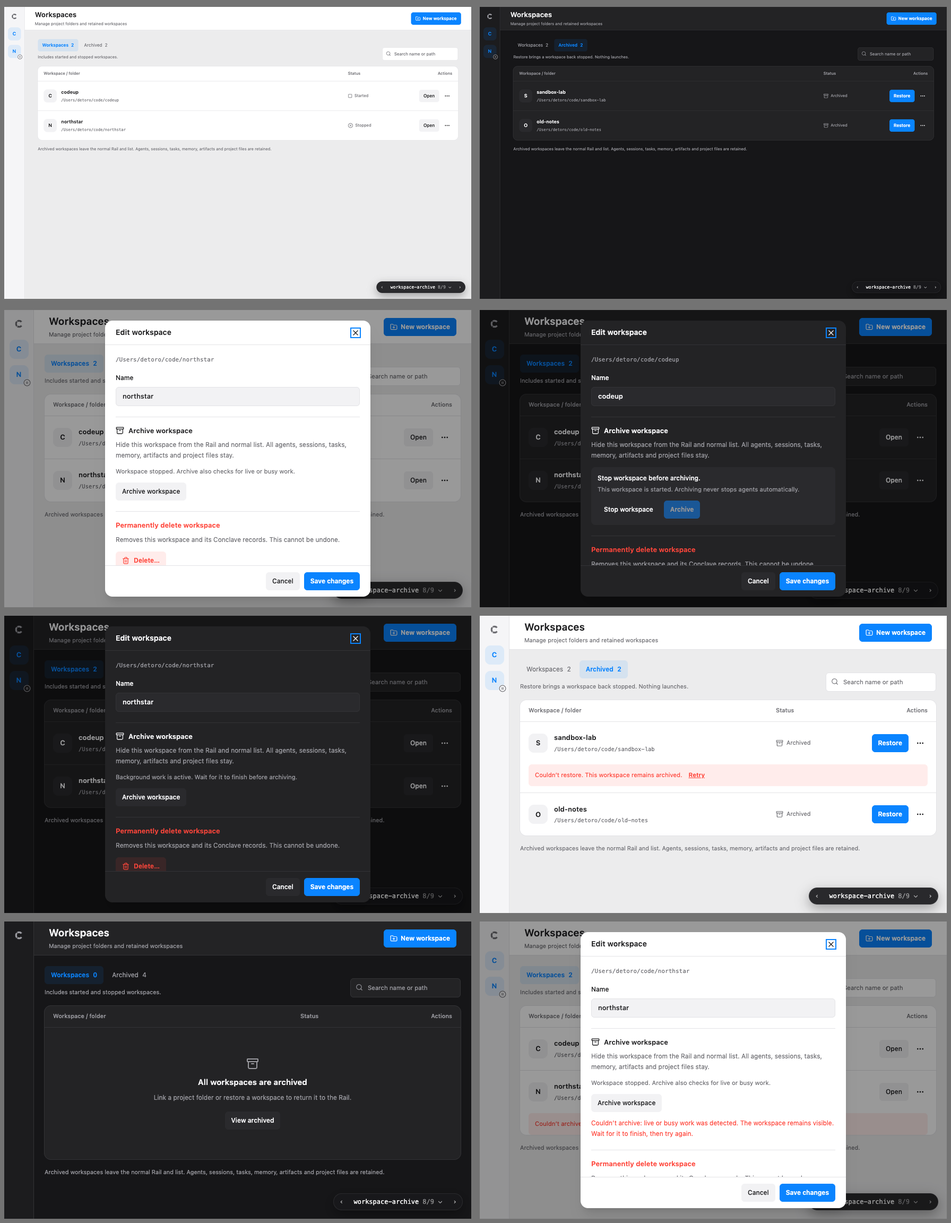
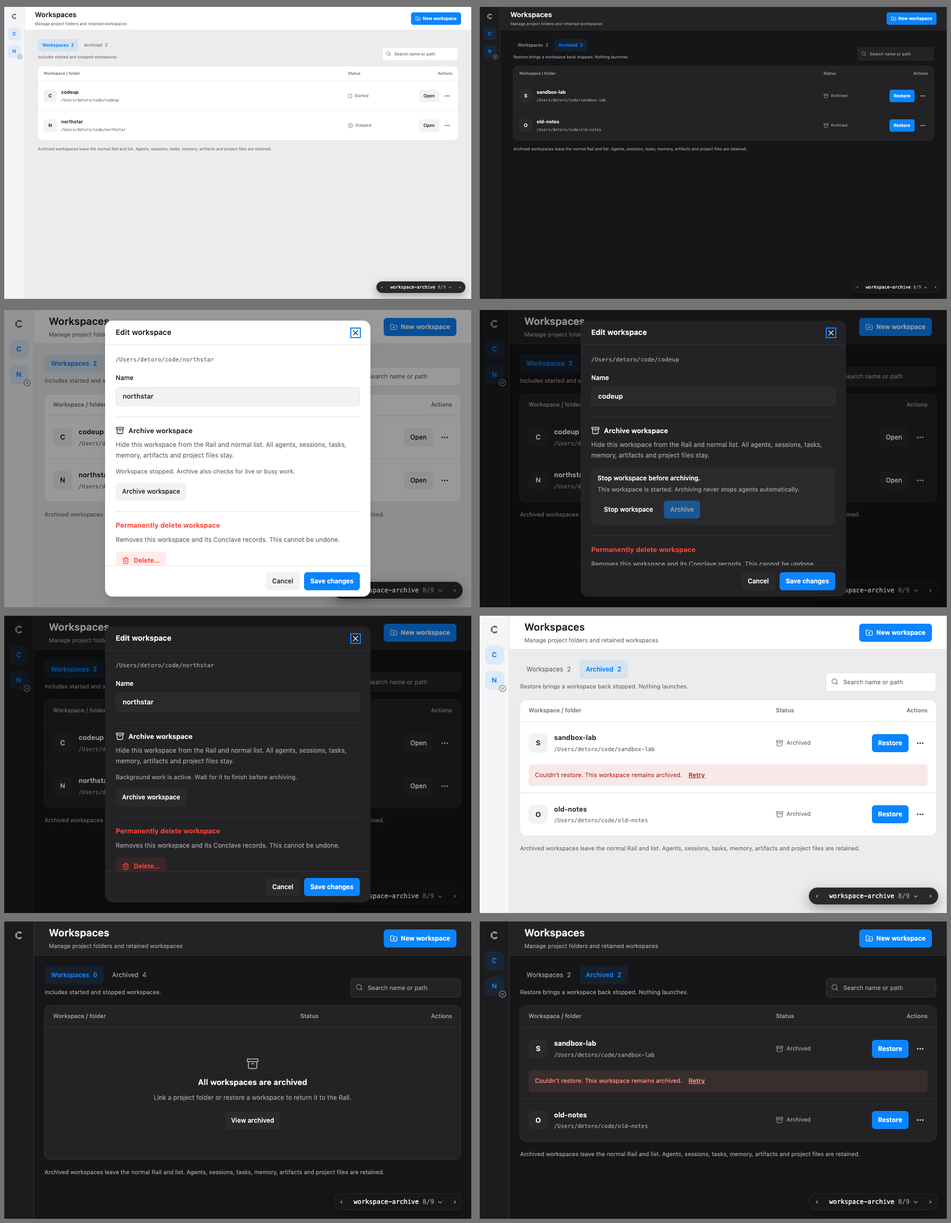
design: finish measured usage calendar and archive contrast
Conclave-Task: workspace-overview-canon
Conclave-Agent: aee0133c-2b94-4ce7-b39a-01ceb26afeb9

Changed region(s): [[0.5, 0.75, 1.0, 1.0]]

diff --git a/design/screens/workspace-overview.tsx b/design/screens/workspace-overview.tsx
@@ -1,113 +1,119 @@
 import { useEffect, useMemo, useRef, useState } from "react";
 import { Link } from "react-router-dom";
-import { CalendarDays, Database, FolderCog, Info } from "lucide-react";
+import { CalendarDays, ChevronRight, FolderCog, Info, Table2 } from "lucide-react";
 
-export const meta = { title: "Overview — AI usage and recorded activity" };
+export const meta = { title: "Overview — measured AI usage and daily activity" };
 
-/* Provisional geometry only. Metric, timezone, attribution and collection
-   coverage await Aoki's research-backed contract. No fabricated measurements. */
-type Bucket = { date: string; count: number | null; unit: string | null };
-const END = Date.UTC(2026, 8, 5);
-const DAY = 86400000;
+type Coverage = "complete" | "partial" | "none";
+type Event = {date:string; model:string; agent:string; workspace:string; tokens:number|null};
+/* Explicit illustrative fixture records. Never presented as live user telemetry.
+   Token numbers below represent input+output only when both components are known.
+   Production adapter must consume the pinned usage.overview wire contract. */
+const RECORDS:Event[] = [
+  {date:"2026-09-02",model:"Claude Sonnet",agent:"Dew",workspace:"codeup",tokens:12400},
+  {date:"2026-09-02",model:"Claude Sonnet",agent:"Dew",workspace:"codeup",tokens:8200},
+  {date:"2026-09-03",model:"Unknown model",agent:"Aoki",workspace:"codeup",tokens:null},
+  {date:"2026-09-04",model:"Claude Sonnet",agent:"Dew",workspace:"codeup",tokens:18600},
+  {date:"2026-09-04",model:"Claude Sonnet",agent:"Dew",workspace:"codeup",tokens:null},
+  {date:"2026-09-05",model:"GPT-5",agent:"Marty",workspace:"archive-lab",tokens:9600},
+];
+const CONTEXT = [
+  {agent:"Dew",model:"Claude Sonnet",workspace:"codeup",used:42000,limit:200000,source:"Transcript",observed:"5 Sep, 13:20"},
+  {agent:"Aoki",model:"Unknown model",workspace:"codeup",used:null,limit:null,source:"Unavailable",observed:"No observation"},
+  {agent:"Marty",model:"GPT-5",workspace:"archive-lab",used:36000,limit:200000,source:"Transcript",observed:"4 Sep, 18:10 · stale"},
+];
+const TODAY = "2026-09-05";
+const DAY=86400000;
+const fmt=(n:number)=>n.toLocaleString("en-US");
+const focus="focus-visible:outline-none focus-visible:ring-2 focus-visible:ring-accent";
+const pill="rounded-md border border-border bg-surface px-2 py-1.5 text-[11px] "+focus;
 
 export default function UsageOverview() {
-  const params = useMemo(() => new URLSearchParams(location.search), []);
-  const state = params.get("state") || "default";
-  const dark = params.get("theme") === "dark";
-  const [weeks, setWeeks] = useState(52);
-  const [workspace, setWorkspace] = useState("All workspaces");
-  const [provider, setProvider] = useState("All providers");
-  const [group, setGroup] = useState("Model");
-  const [selected, setSelected] = useState(0);
-  const [table, setTable] = useState(false);
-  const cells = useRef<(HTMLButtonElement | null)[]>([]);
-  const buckets = useMemo<Bucket[]>(() => Array.from({ length: weeks * 7 }, (_, i) => ({
-    date: new Date(END - (weeks * 7 - i - 1) * DAY).toISOString().slice(0, 10),
-    count: null, unit: null,
-  })), [weeks]);
-  const current = buckets[Math.min(selected, buckets.length - 1)];
-  const loading = state === "loading";
-  const error = state === "error";
-  const explanation = state === "unsupported"
-    ? "Usage measurement is unavailable for this provider."
-    : state === "partial"
-      ? "Some sources or periods are missing. Only measured usage can contribute to totals."
-      : "No recorded usage yet. Earlier activity may not be available when collection begins.";
-
-  useEffect(() => {
-    document.documentElement.classList.toggle("dark", dark);
-    return () => document.documentElement.classList.remove("dark");
-  }, [dark]);
+  const params=useMemo(()=>new URLSearchParams(location.search),[]);
+  const preview=params.get("state")||"default";
+  const dark=params.get("theme")==="dark";
+  const [range,setRange]=useState(90);
+  const [model,setModel]=useState("All models");
+  const [agent,setAgent]=useState("All agents");
+  const [workspace,setWorkspace]=useState("All workspaces");
+  const [group,setGroup]=useState("Model");
+  const [selected,setSelected]=useState(89);
+  const [table,setTable]=useState(false);
+  const [failed,setFailed]=useState(preview==="error");
+  const cells=useRef<(HTMLButtonElement|null)[]>([]);
+  const loading=preview==="loading";
+  const unavailable=preview==="none"||preview==="unsupported";
+  const empty=preview==="empty"||preview==="zero";
+  const records=unavailable||empty||loading||failed?[]:RECORDS.filter(e=>(model==="All models"||e.model===model)&&(agent==="All agents"||e.agent===agent)&&(workspace==="All workspaces"||e.workspace===workspace));
+  const matches=(e:{model:string;agent:string;workspace:string})=>(model==="All models"||e.model===model)&&(agent==="All agents"||e.agent===agent)&&(workspace==="All workspaces"||e.workspace===workspace);
+  const dates=Array.from({length:range},(_,i)=>new Date(Date.parse(TODAY+"T00:00:00Z")-(range-i-1)*DAY).toISOString().slice(0,10));
+  const coverage=(date:string):Coverage=>preview==="zero"&&date!==TODAY?"complete":unavailable||loading||failed||date<"2026-09-01"?"none":date==="2026-09-03"||date===TODAY?"partial":"complete";
+  const buckets=dates.map(date=>{const events=records.filter(e=>e.date===date);return {date,count:events.length,coverage:coverage(date)};});
+  const firstDay=new Date(dates[0]+"T00:00:00Z").getUTCDay();
+  const columns=Math.ceil((range+firstDay)/7);
+  const padded=[...Array(firstDay).fill(null),...buckets,...Array(columns*7-range-firstDay).fill(null)];
+  const current=buckets[Math.min(selected,range-1)];
+  const exact=(b:typeof current)=>b.coverage==="none"?"Unavailable":b.coverage==="partial"&&b.count===0?"— · partial":fmt(b.count)+(b.coverage==="partial"?" · partial":"");
+  const measured=records.reduce((n,e)=>n+(e.tokens??0),0);
+  const missing=records.filter(e=>e.tokens===null).length;
+  const hasCoverage=buckets.some(b=>b.coverage!=="none");
+  const fullyCovered=buckets.every(b=>b.coverage==="complete");
+  const rows=Object.values(records.reduce<Record<string,{name:string;count:number;tokens:number;missing:number}>>((out,e)=>{
+    const name=group==="Model"?e.model:group==="Agent"?e.agent:e.workspace;
+    out[name]??={name,count:0,tokens:0,missing:0};out[name].count++;out[name].tokens+=e.tokens??0;out[name].missing+=e.tokens===null?1:0;return out;
+  },{}));
+  useEffect(()=>{document.documentElement.classList.toggle("dark",dark);return()=>document.documentElement.classList.remove("dark");},[dark]);
 
   return <div className="usage-canon flex h-screen min-w-[760px] overflow-hidden bg-canvas font-sans text-text-primary">
     <style>{`
-      .usage-canon { --heat-0: #e8e8ef; --heat-1: #c4c0f1; --heat-2: #9b92e5; --heat-3: #7468d5; --heat-4: #5143b6; }
-      .dark .usage-canon { --heat-0: #292932; --heat-1: #373251; --heat-2: #514887; --heat-3: #6b5bb5; --heat-4: #8d7bea; }
-      .usage-canon .heat-unknown { background: transparent; border: 1px dashed var(--color-border); }
-      .usage-canon button:focus-visible, .usage-canon a:focus-visible, .usage-canon select:focus-visible { outline: 2px solid var(--color-accent); outline-offset: 3px; }
+      .usage-canon { --heat-0:#e6e6ed;--heat-1:#c0bbed;--heat-2:#9187dd;--heat-3:#7060c8;--heat-4:#5142ab; }
+      .dark .usage-canon { --heat-0:#32323c;--heat-1:#464064;--heat-2:#615395;--heat-3:#7e6dc6;--heat-4:#a595ef; }
+      .usage-canon .unknown-cell { border:1px dashed var(--color-text-secondary);background:transparent;opacity:.45; }
+      .usage-canon .partial-cell { outline:1px dotted var(--color-text-primary);outline-offset:1px; }
+      .usage-canon .sr-only { position:absolute;width:1px;height:1px;padding:0;margin:-1px;overflow:hidden;clip:rect(0,0,0,0);white-space:nowrap;border:0; }
+      .usage-canon .calendar-rows { display:grid;grid-template-rows:repeat(7,16px);gap:6px;padding-top:24px; }
     `}</style>
-    <nav aria-label="Primary" className="flex w-14 shrink-0 flex-col items-center gap-3 border-r border-border bg-sidebar py-2">
-      <Link to="/workspace-overview" aria-label="Overview" aria-current="page" className="grid h-9 w-9 place-items-center rounded-[9px] bg-accent/10 text-accent">
-        <svg viewBox="0 0 512 512" className="h-5 w-5" fill="currentColor" aria-hidden="true">
-          <path d="M149 97 223 67 322 76 403 133 336 189 292 158 247 152 198 170Z" />
-          <path d="M128 399 76 322 68 256 76 190 128 113 186 179 156 205 152 256 156 307 186 333Z" />
-          <path d="M403 379 322 436 223 445 149 415 198 342 247 360 292 354 336 323Z" />
-        </svg>
-      </Link>
-      <Link to="/workspace-archive" aria-label="Manage workspaces" title="Manage workspaces" className="grid h-9 w-9 place-items-center rounded-lg text-text-secondary hover:bg-fill"><FolderCog className="h-[18px] w-[18px]" /></Link>
+    <nav className="flex w-14 shrink-0 flex-col items-center gap-3 border-r border-border bg-sidebar py-2" aria-label="Primary">
+      <Link to="/workspace-overview" aria-label="Overview" aria-current="page" className={"grid h-9 w-9 place-items-center rounded-lg bg-accent/10 text-accent "+focus}><svg viewBox="0 0 512 512" fill="currentColor" className="h-5 w-5" aria-hidden="true"><path d="M149 97 223 67 322 76 403 133 336 189 292 158 247 152 198 170Z"/><path d="M128 399 76 322 68 256 76 190 128 113 186 179 156 205 152 256 156 307 186 333Z"/><path d="M403 379 322 436 223 445 149 415 198 342 247 360 292 354 336 323Z"/></svg></Link>
+      <Link to="/workspace-archive" aria-label="Manage workspaces" className={"grid h-9 w-9 place-items-center rounded-lg text-text-secondary "+focus}><FolderCog className="h-4 w-4"/></Link>
     </nav>
     <main className="min-w-0 flex-1 overflow-auto">
-      <header className="flex h-16 items-center justify-between gap-4 border-b border-border bg-surface px-7">
-        <div><h1 className="text-[19px] font-semibold tracking-[-0.02em]">Overview</h1><p className="mt-0.5 text-[11px] text-text-secondary">AI usage across your workspaces</p></div>
-        <Link to="/workspace-archive" className="inline-flex items-center gap-2 rounded-md bg-fill px-3 py-2 text-[11px] font-medium"><FolderCog className="h-3.5 w-3.5" />Manage workspaces</Link>
-      </header>
-      <div className="mx-auto max-w-[1320px] space-y-5 px-7 py-5 max-[980px]:px-5">
-        <div className="flex flex-wrap items-center justify-between gap-3">
-          <div className="flex gap-2">
-            <label><span className="sr-only">Workspace</span><select value={workspace} onChange={e => setWorkspace(e.target.value)} className="h-8 rounded-md border border-border bg-surface px-2 text-[11px]"><option>All workspaces</option><option>codeup</option><option>launchpad</option></select></label>
-            <label><span className="sr-only">Provider</span><select value={provider} onChange={e => setProvider(e.target.value)} className="h-8 rounded-md border border-border bg-surface px-2 text-[11px]"><option>All providers</option><option>Codex</option><option>Claude Code</option><option>Antigravity</option></select></label>
-          </div>
-          <label className="inline-flex items-center gap-2 text-[11px]"><CalendarDays className="h-3.5 w-3.5" /><span className="sr-only">Date range</span><select value={weeks} onChange={e => { setWeeks(Number(e.target.value)); setSelected(0); }} className="h-8 rounded-md border border-border bg-surface px-2"><option value={4}>4 weeks</option><option value={13}>13 weeks</option><option value={26}>26 weeks</option><option value={52}>52 weeks</option></select></label>
+      <header className="flex h-16 items-center justify-between gap-4 border-b border-border bg-surface px-6"><div><h1 className="text-[19px] font-semibold">Overview</h1><p className="mt-0.5 text-[11px] text-text-secondary">Recorded AI activity and measured tokens</p></div><Link to="/workspace-archive" className={pill}>Manage workspaces</Link></header>
+      <div className="mx-auto max-w-[1280px] space-y-4 px-6 py-4 max-[980px]:px-5">
+        <p className="text-[10px] text-text-secondary">Design specimen · illustrative records · 5 Sep 2026 · Asia/Bangkok</p>
+        <div className="flex flex-wrap items-center gap-2">
+          {[[model,setModel,["All models","Claude Sonnet","GPT-5","Unknown model"]],[agent,setAgent,["All agents","Dew","Aoki","Marty"]],[workspace,setWorkspace,["All workspaces","codeup","archive-lab"]]].map(([value,set,options],i)=><label key={i}><span className="sr-only">{["Model","Agent","Workspace"][i]}</span><select className={pill} value={value as string} onChange={e=>(set as (v:string)=>void)(e.target.value)}>{(options as string[]).map(v=><option key={v}>{v}</option>)}</select></label>)}
+          <label className="ml-auto flex items-center gap-2"><CalendarDays className="h-3.5 w-3.5 text-text-secondary"/><span className="sr-only">Date range</span><select className={pill} value={range} onChange={e=>{setRange(Number(e.target.value));setSelected(Number(e.target.value)-1);}}><option value={30}>Last 30 days</option><option value={90}>Last 90 days</option></select></label>
         </div>
-        <section aria-label="Token measurements" className="grid grid-cols-3 divide-x divide-border border-y border-border py-4">
+        <p className="text-[10.5px] text-text-secondary">Archived workspace history included · hidden internal workspaces excluded</p>
+        {failed?<div role="alert" className="flex items-center justify-between rounded-lg bg-surface p-4 ring-1 ring-border"><span className="text-[12px]">Couldn’t load usage. Measurements are unavailable.</span><button className={pill} onClick={()=>setFailed(false)}>Retry</button></div>:<section aria-label="Period measurements" className="grid grid-cols-3 divide-x divide-border border-y border-border py-3">
           {[
-            ["Period token usage", "Measured tokens in the selected range"],
-            ["Current context", "Latest observed context per agent"],
-            ["Measurement coverage", "Sources and periods with recorded data"],
-          ].map(([label, copy]) => <div key={label} className="px-4 first:pl-0"><h2 className="text-[11px] font-medium text-text-secondary">{label}</h2>
-            {loading ? <div className="my-3 h-5 w-24 rounded bg-fill" aria-label="Loading" /> : <div className="my-2 text-[22px] font-semibold">—<span className="ml-2 text-[11px] font-normal text-text-secondary">Unavailable</span></div>}
-            <p className="text-[10.5px] text-text-secondary">{copy}</p></div>)}
-        </section>
-        <div role={error ? "alert" : "status"} className="flex items-start gap-2 text-[11px] leading-relaxed text-text-secondary"><Info className="mt-0.5 h-3.5 w-3.5 shrink-0" /><span>{error ? "Couldn’t load usage. Measurements remain unavailable until refresh succeeds." : loading ? "Loading measurements and coverage…" : explanation}</span>{error && <button onClick={() => location.reload()} className="ml-auto font-semibold text-accent">Retry</button>}</div>
-
+            ["Measured tokens",loading?"Loading…":!hasCoverage?"Unavailable":records.length>missing?fmt(measured):fullyCovered&&!records.length?"0":"—",hasCoverage?missing+" activity records have unknown token usage":"Missing-record count unavailable"],
+            ["Recorded activity",loading?"Loading…":!hasCoverage?"Unavailable":records.length?fmt(records.length):fullyCovered?"0":"—","Completed responses / stable usage records"],
+            ["Coverage",loading?"Loading…":!hasCoverage?"None":fullyCovered?"Complete":"Partial",hasCoverage?"History starts 1 Sep · gaps remain unknown":"No supported observation in this range"],
+          ].map(([label,value,help])=><div key={label} className="px-4 first:pl-0"><h2 className="text-[11px] text-text-secondary">{label}</h2><div className="my-2 font-semibold tabular-nums" style={{fontSize:25}}>{value}</div><p className="text-[10.5px] leading-relaxed text-text-secondary">{help}</p></div>)}
+        </section>}
+        <p role="status" className="flex items-start gap-2 text-[11px] leading-relaxed text-text-secondary"><Info className="mt-0.5 h-3.5 w-3.5 shrink-0"/>{unavailable?"This source has no validated usage observations. Unknown does not mean zero.":"Measured tokens include known input + output only. They are not total account consumption; missing usage and observation gaps remain visible."}</p>
         <section aria-labelledby="activity-title" className="rounded-xl bg-surface p-4 ring-1 ring-border">
-          <div className="flex items-start justify-between gap-3"><div><h2 id="activity-title" className="text-[13px] font-semibold">Activity</h2><p className="mt-1 text-[10.5px] text-text-secondary">{buckets[0].date} – {buckets[buckets.length - 1].date} · Daily calendar preview</p></div><button onClick={() => setTable(v => !v)} aria-expanded={table} className="rounded-md bg-fill px-2.5 py-1.5 text-[10.5px] font-medium">{table ? "Show heatmap" : "View dates as table"}</button></div>
-          <p className="mt-3 text-[10.5px] text-text-secondary">No measured activity is available for this period. Outlined cells mean unknown.</p>
-          {table ? <div className="mt-4 max-h-40 overflow-auto"><table className="w-full text-left text-[11px]"><thead><tr><th className="py-2">Date</th><th>Metric</th><th>Exact count</th><th>Coverage</th></tr></thead><tbody>{buckets.map(b => <tr key={b.date} className="border-t border-border"><td className="py-1.5">{b.date}</td><td>Unavailable</td><td>—</td><td>Unknown</td></tr>)}</tbody></table></div>
-          : <div className="mt-4 flex gap-3 overflow-x-auto pb-2">
-            <div className="grid shrink-0 grid-rows-7 gap-1 pt-6 text-[9px] text-text-secondary">{["Sun","Mon","Tue","Wed","Thu","Fri","Sat"].map(day => <span key={day} className="flex h-3.5 items-center">{day}</span>)}</div>
-            <div className="min-w-0 flex-1">
-              <div className="mb-2 flex justify-between text-[10px] text-text-secondary"><span>{buckets[0].date}</span><span>Sep 2026</span></div>
-              <div role="group" aria-label="Daily activity: dates currently unknown" className="grid w-max grid-flow-col grid-rows-7 gap-1" style={{ gridTemplateColumns: `repeat(${weeks}, 14px)` }}>
-                {buckets.map((b, i) => <button key={b.date} ref={el => {cells.current[i] = el;}} tabIndex={i === selected ? 0 : -1} title={`${b.date} · Activity unavailable · Exact count unknown`} aria-label={`${b.date}, activity unavailable, count unknown`} onMouseEnter={() => setSelected(i)} onFocus={() => setSelected(i)} onClick={() => setSelected(i)} onKeyDown={e => {
-                  const step = e.key === "ArrowRight" ? 7 : e.key === "ArrowLeft" ? -7 : e.key === "ArrowDown" ? 1 : e.key === "ArrowUp" ? -1 : 0;
-                  if (step) { e.preventDefault(); const next = Math.max(0, Math.min(buckets.length - 1, i + step)); setSelected(next); cells.current[next]?.focus(); }
-                }} className="heat-unknown h-3.5 min-w-3.5 rounded-[3px]" />)}
+          <div className="flex items-start justify-between"><div><h2 id="activity-title" className="text-[13px] font-semibold">Daily activity</h2><p className="mt-1 text-[10.5px] text-text-secondary">{dates[0]} – {TODAY} · Asia/Bangkok · Today in progress</p></div><button onClick={()=>setTable(v=>!v)} className={"inline-flex items-center gap-1.5 "+pill}><Table2 className="h-3 w-3"/>{table?"Calendar":"Daily table"}</button></div>
+          {loading?<div aria-label="Loading daily activity" className="my-5 rounded bg-fill" style={{height:128}}/>:table?<div className="mt-4 max-h-44 overflow-auto"><table className="w-full text-left text-[11px]"><thead><tr><th>Date</th><th>Activity records</th><th>Coverage</th></tr></thead><tbody>{buckets.map(b=><tr key={b.date} className="border-t border-border"><td className="py-1.5">{b.date}{b.date===TODAY?" · in progress":""}</td><td>{exact(b)}</td><td>{b.coverage}</td></tr>)}</tbody></table></div>:<div className="mt-4 flex gap-3 overflow-x-auto pb-2">
+            <div className="calendar-rows shrink-0 text-[9px] text-text-secondary">{["Sun","Mon","Tue","Wed","Thu","Fri","Sat"].map(d=><span key={d} className="flex h-4 items-center">{d}</span>)}</div>
+            <div><div className="mb-2 grid h-4 text-[10px] text-text-secondary" style={{gridTemplateColumns:`repeat(${columns},22px)`}}>{Array.from({length:columns},(_,i)=>{const date=dates[Math.max(0,i*7-firstDay)];const prev=dates[Math.max(0,(i-1)*7-firstDay)];return <span key={i} className="overflow-visible whitespace-nowrap">{i===columns-1?"Sep":i===0||date?.slice(0,7)!==prev?.slice(0,7)?new Date(date+"T00:00:00Z").toLocaleString("en",{month:"short",timeZone:"UTC"}):""}</span>;})}</div>
+              <div role="group" aria-label="Daily recorded activity" className="grid w-max gap-1.5" style={{gridAutoFlow:"column",gridTemplateRows:"repeat(7,16px)",gap:6,gridTemplateColumns:`repeat(${columns},16px)`}}>
+                {padded.map((b,i)=>!b?<span key={"outside"+i} aria-hidden="true" className="h-4 w-4"/>:<button key={b.date} ref={el=>{cells.current[i-firstDay]=el;}} tabIndex={i-firstDay===selected?0:-1} title={b.date+" · "+exact(b)+" activity records · "+b.coverage} aria-label={b.date+", "+exact(b)+" activity records, "+b.coverage+(b.date===TODAY?", in progress":"")} onFocus={()=>setSelected(i-firstDay)} onMouseEnter={()=>setSelected(i-firstDay)} onClick={()=>setSelected(i-firstDay)} onKeyDown={e=>{const step=e.key==="ArrowRight"?7:e.key==="ArrowLeft"?-7:e.key==="ArrowDown"?1:e.key==="ArrowUp"?-1:0;if(step){e.preventDefault();e.stopPropagation();const n=Math.max(0,Math.min(range-1,i-firstDay+step));setSelected(n);cells.current[n]?.focus();}}} className={`h-4 w-4 rounded-[3px] ${focus} ${b.coverage==="none"||b.coverage==="partial"&&!b.count?"unknown-cell":""} ${b.coverage==="partial"?"partial-cell":""}`} style={b.coverage==="complete"||b.count?{backgroundColor:`var(--heat-${Math.min(b.count,4)})`}:undefined}/>)}
               </div>
             </div>
+            <div className="ml-auto max-w-[230px] self-center pl-5 text-[11px] leading-relaxed text-text-secondary max-[980px]:hidden"><p className="font-medium text-text-primary">History begins with collection</p><p className="mt-2">Earlier dates and observation gaps are unknown. A solid empty cell is a verified zero.</p></div>
           </div>}
-          <div className="mt-3 flex flex-wrap items-center justify-between gap-3 border-t border-border pt-3 text-[10px] text-text-secondary">
-            <output aria-live="polite">{current.date} · Activity unavailable · Count unknown</output>
-            <div className="flex items-center gap-1.5" aria-label="Intensity scale preview"><span>Less</span>{[0,1,2,3,4].map(level => <span key={level} className="h-3 w-3 rounded-[3px]" style={{ backgroundColor: `var(--heat-${level})` }} />)}<span>More</span><span className="heat-unknown ml-2 h-3 w-3 rounded-[3px]" /><span>Unknown</span></div>
-          </div>
-          <p className="mt-2 text-[10px] text-text-secondary">Scale preview only. Measured unit and bucket definition await the data contract.</p>
+          <output aria-live="polite" className="mt-3 block border-t border-border pt-3 text-[11px] text-text-secondary">{current.date} · {exact(current)} activity records · Coverage: {current.coverage}{current.date===TODAY?" · In progress":""}</output>
+          <div className="mt-3 flex flex-wrap items-center gap-2 text-[10px] text-text-secondary"><span>Activity records / day</span>{[0,1,2,3,4].map(n=><span key={n} className="inline-flex items-center gap-1"><span className="h-3 w-3 rounded-[3px]" style={{backgroundColor:`var(--heat-${n})`}}/>{n===4?"4+":n}</span>)}<span className="unknown-cell ml-2 h-3 w-3 rounded-[3px]"/><span>Unknown</span><span className="partial-cell ml-2 h-3 w-3 rounded-[3px]"/><span>Partial</span></div>
         </section>
-
-        <section aria-label="Usage attribution">
-          <div className="flex items-center justify-between"><h2 className="text-[13px] font-semibold">Usage breakdown</h2><div className="flex rounded-md bg-fill p-0.5">{["Model", "Agent", "Workspace"].map(value => <button key={value} onClick={() => setGroup(value)} aria-pressed={group === value} className={`rounded px-3 py-1 text-[11px] ${group === value ? "bg-surface font-semibold text-text-primary" : "text-text-secondary"}`}>{value}</button>)}</div></div>
-          <div className="mt-3 overflow-hidden rounded-xl bg-surface ring-1 ring-border"><div className="grid grid-cols-[1.4fr_1fr_1fr_1fr] gap-3 border-b border-border px-4 py-2 text-[10.5px] font-medium text-text-secondary"><span>{group}</span><span>Period tokens</span><span>Current context</span><span>Coverage / source</span></div><div className="flex min-h-28 items-center justify-center gap-3 px-4 py-5"><Database className="h-5 w-5 text-text-secondary" /><div><p className="text-[12px] font-medium">{loading ? "Loading attribution…" : "No measured usage to attribute"}</p><p className="mt-1 text-[11px] text-text-secondary">{workspace} · {provider}. Missing measurements remain unknown.</p></div></div></div>
+        <section><div className="flex items-center justify-between"><h2 className="text-[13px] font-semibold">Usage breakdown</h2><div className="flex gap-1 rounded-md bg-fill p-1">{["Model","Agent","Workspace"].map(v=><button key={v} aria-pressed={group===v} onClick={()=>setGroup(v)} className={"rounded px-3 py-1 text-[11px] "+focus+" "+(group===v?"bg-surface font-semibold":"text-text-secondary")}>{v}</button>)}</div></div>
+          <table className="mt-3 w-full rounded-xl bg-surface text-left text-[11px]"><thead><tr className="border-b border-border text-text-secondary"><th className="px-4 py-3">{group}</th><th>Activity records</th><th>Measured tokens</th><th>Unknown usage</th></tr></thead><tbody>{rows.map(row=><tr key={row.name} className="border-b border-border last:border-0"><td className="px-4 py-3 font-medium">{row.name}{row.name==="archive-lab"&&<span className="ml-2 text-[10px] text-text-secondary">Archived</span>}</td><td>{row.count}</td><td>{row.missing===row.count?"—":fmt(row.tokens)}</td><td>{row.missing} records</td></tr>)}{!rows.length&&<tr><td colSpan={4} className="px-4 py-6 text-text-secondary">{loading?"Loading attribution…":hasCoverage?"No recorded activity matches these filters. Coverage gaps remain unknown.":"Usage unavailable for these filters."}</td></tr>}</tbody></table>
         </section>
-        <p className="text-[10.5px] text-text-secondary">Current context is a latest snapshot. It is not added to period token usage.</p>
+        <section className="border-t border-border pt-4"><h2 className="text-[13px] font-semibold">Current context <span className="ml-2 text-[10.5px] font-normal text-text-secondary">Latest snapshots · independent of date range</span></h2><p className="mt-1 text-[10.5px] text-text-secondary">Context is not cumulative usage. Capacities and snapshots are never summed.</p>
+          {CONTEXT.filter(matches).map(c=><div key={c.agent} style={{display:"grid",gridTemplateColumns:"100px minmax(0,1fr) 160px",gap:16}} className="mt-3 items-center text-[11px]"><div className="font-medium">{c.agent}<p className="mt-1 text-[10px] font-normal text-text-secondary">{c.workspace}{c.workspace==="archive-lab"?" · Archived":""}</p></div><div>{c.used===null?"Unavailable":<><div className="mb-1.5 tabular-nums">{fmt(c.used)} / {fmt(c.limit!)} tokens · {Math.round(c.used/c.limit!*100)}%</div><meter className="h-2 w-full" min={0} max={c.limit!} value={c.used} aria-label={c.agent+" current context"}/></>}</div><div className="text-[10px] leading-relaxed text-text-secondary">{c.source}<br/>{c.observed}</div></div>)}
+        </section>
       </div>
     </main>
   </div>;

diff --git a/design/screens/workspace-archive.tsx b/design/screens/workspace-archive.tsx
@@ -72,7 +72,8 @@ export default function WorkspaceArchive() {
     notify("Prototype navigation target: "+row.name+". Opening does not start agents.");
   }
 
-  return <div className="flex h-screen min-w-[760px] overflow-hidden bg-canvas font-sans text-text-primary">
+  return <div className="archive-canon flex h-screen min-w-[760px] overflow-hidden bg-canvas font-sans text-text-primary">
+    <style>{`.archive-canon { --color-danger: #b42318; } .dark .archive-canon { --color-danger: #ff8a80; } .archive-canon [role="alert"].text-danger { background:color-mix(in srgb,var(--color-danger) 10%,var(--color-surface)); }`}</style>
     <nav aria-label="Primary" className="flex w-14 shrink-0 flex-col items-center gap-2 border-r border-border bg-sidebar py-2">
       <Link to="/workspace-overview" aria-label="Overview" title="AI usage Overview" className={"grid h-9 w-9 place-items-center rounded-lg text-text-secondary "+focus}><Mark /></Link>
       {active.map(row => <button key={row.id} onClick={() => openWorkspace(row)} aria-label={"Open "+row.name} title={row.name} className={"relative mt-1 grid h-9 w-9 place-items-center rounded-[10px] bg-accent/10 text-[13px] font-semibold text-accent "+focus}>{row.name[0].toUpperCase()}{!row.started && <CirclePause className="absolute -bottom-1 -right-1 h-3.5 w-3.5 rounded-full bg-sidebar text-text-secondary" />}</button>)}

diff --git a/docs/design/2026-09-05-workspace-overview-archive.md b/docs/design/2026-09-05-workspace-overview-archive.md
@@ -4,7 +4,7 @@ Owner: Hardwell. Product/API ruling and acceptance: Aoki.
 
 ## Acceptance split
 
-Archive is independently reviewable. AI usage Overview remains a provisional layout pending the usage data contract. Do not implement its example date range, unknown-only calendar, or legend as final telemetry semantics.
+Archive and AI usage Overview are now reviewable against Aoki's presentation contract in `docs/plans/2026-09-05-usage-overview-contract.md`. Source validation can refine activity wording before pin. Final frontend wire types and collection enablement remain Aoki's gate.
 
 ## Archive contract
 
@@ -38,7 +38,31 @@ Use `?project=1qod8l2&state=STATE&theme=light#/workspace-archive` on the design 
 | text-text-secondary | text-text-secondary |
 | surface, surface-raised, accent, danger | Same semantic token names |
 
-No production token files are changed. The Overview's scoped indigo heat ramp is explicitly requested by the human reference; final numeric thresholds require the usage ruling.
+No production token files are changed. The Overview's scoped indigo heat ramp is explicitly requested by the human reference. Legend bands are 0, 1, 2, 3, 4+ recorded activity records per day; exact counts remain available for every cell.
+
+### Scoped Archive contrast correction
+
+Use component-scoped `--archive-danger-text` in production: light `#b42318`, dark `#ff8a80`. Apply to destructive labels, inline errors and destructive text buttons. Use a 10% mix of that colour with the actual surface for alert backgrounds; do not change global `--color-danger`. Canon scopes its equivalent override under `.archive-canon` only. Reuse the same scoped token on EditWorkspace's Archive/error portion; retain normal button contrast rules for filled destructive confirmation controls.
+
+Measured WCAG sRGB contrast: light text on white 6.57:1; light 10% alert tint 5.57:1; dark text on #232325 6.87:1; dark 10% alert tint 5.77:1. Browser computed foreground and colour-mix values matched the calculation. Final light/dark restore-alert captures were reopened after correction. This supersedes the first atlas's bright error red.
+
+## Usage presentation contract
+
+Default is 90 calendar dates including today, with a 30-day alternative. The specimen freezes 5 Sep 2026 in Asia/Bangkok and labels all six example records as illustrative. Production computes calendar date buckets from the browser IANA timezone using DST-aware half-open UTC boundaries; never lift the specimen's fixed UTC date arithmetic into collection or production bucketing.
+
+Model, agent and workspace selectors apply equally to measured token figures, recorded activity, attribution rows and heatmap. Provider may appear as metadata; no independent provider filter. All workspace scope includes archived history, labelled Archived; hidden internal workspaces are excluded. Unknown served model displays Unknown model. Never substitute requested model.
+
+Measured tokens aggregate input plus output only for records with both known. Cache subsets are not added again. Pair the subtotal with count of records missing token usage. If all records lack usage, show an em dash; do not manufacture a zero subtotal. Activity means verified completed responses or verified stable usage records, pending final source wording. It is not an inferred count of turns or model requests.
+
+Coverage is complete/partial/none, returned by the data adapter for the exact filtered scope and period. A complete empty day is 0; a partial empty day is an em dash; no coverage is Unavailable. Partial observed records retain the exact count with a marker. Earlier history before collection and outages remain unknown. Outside-range calendar slots are blank. Today is labelled in progress. The deterministic specimen includes all these distinctions; its coverage dates are fixture data, not source policy.
+
+Heatmap: seven weekday rows, chronological week columns, month/date labels, 16 px rounded cells with 6 px gaps, scoped indigo intensity ramp. Hover/focus shows date, exact activity count, coverage and current-day status. Roving tab stop and arrow keys move within the chart; key propagation stops so design-host navigation cannot hijack chart arrows. Daily table exposes the same date/count/coverage values without colour reliance.
+
+Context is a separate latest-per-agent gauge. Show used/capacity tokens, source and observation time; stale observations retain their age label and unknown remains unavailable. Never sum context snapshots or combine them with period usage. Date range does not change current context; identity filters do. The prototype's context examples are independently labelled illustrative data.
+
+Usage preview states: default/partial, empty (no events with gaps), zero (verified empty historical dates with today partial), none, unsupported, loading, error. Filters exercise Unknown model/all-missing-token rows. Initial source coverage and history have no assumed backfill.
+
+Usage evidence: `design/screens/workspace-overview.png` atlas. Full light/dark captures `/tmp/usage-canon-light.png` and `/tmp/usage-canon-dark.png`; 880×560 state captures `/tmp/usage-min-default-light.png`, `/tmp/usage-min-loading-dark.png`, `/tmp/usage-min-error-light.png`, `/tmp/usage-min-none-dark.png`, `/tmp/usage-min-empty-light.png`. Context was separately opened at `/tmp/usage-context-dark.png`, then recaptured with the final grid in full captures. Filter check: Unknown model gives one activity, one missing token record, and em dash measured usage. Keyboard check: Sep 5 Left moves to Aug 29. Daily-table toggle exposes the calendar table. Fresh main-host :7343 final captures supersede intermediate :7344 captures whose bundled CSS omitted some generated utilities.
 
 ## Verification
 
